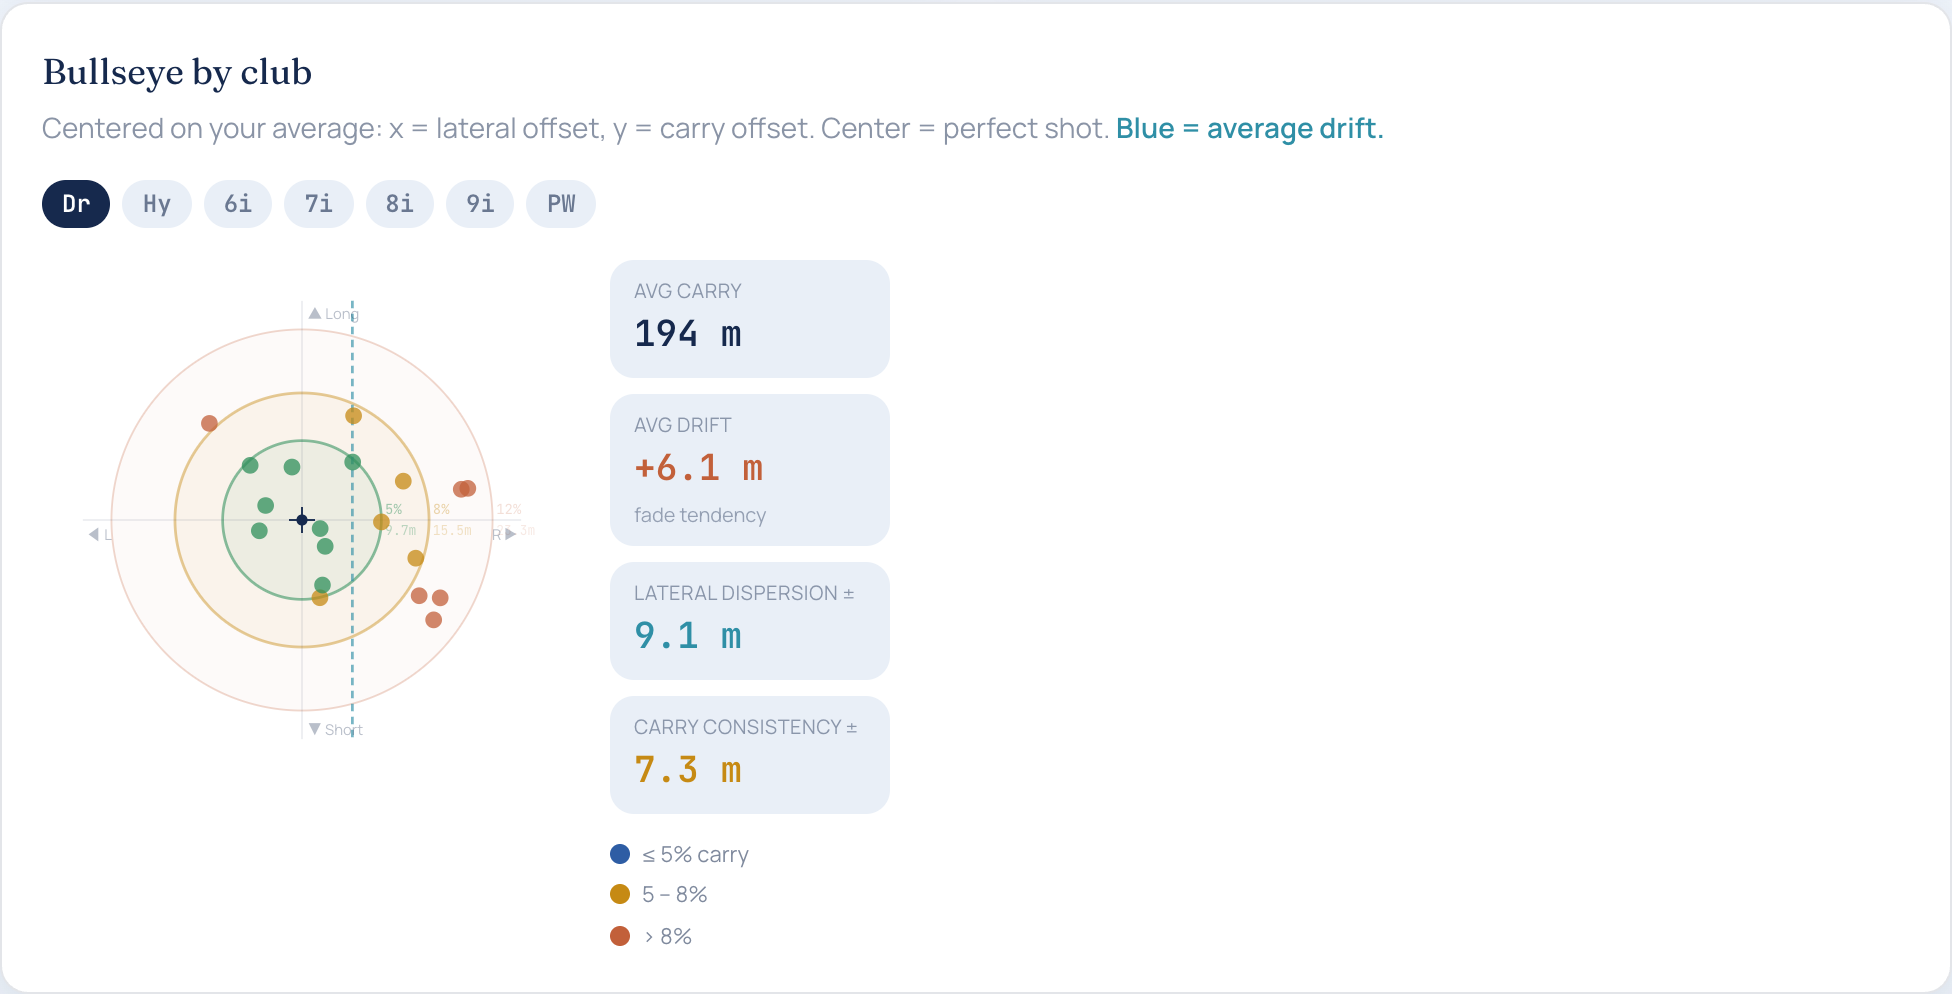
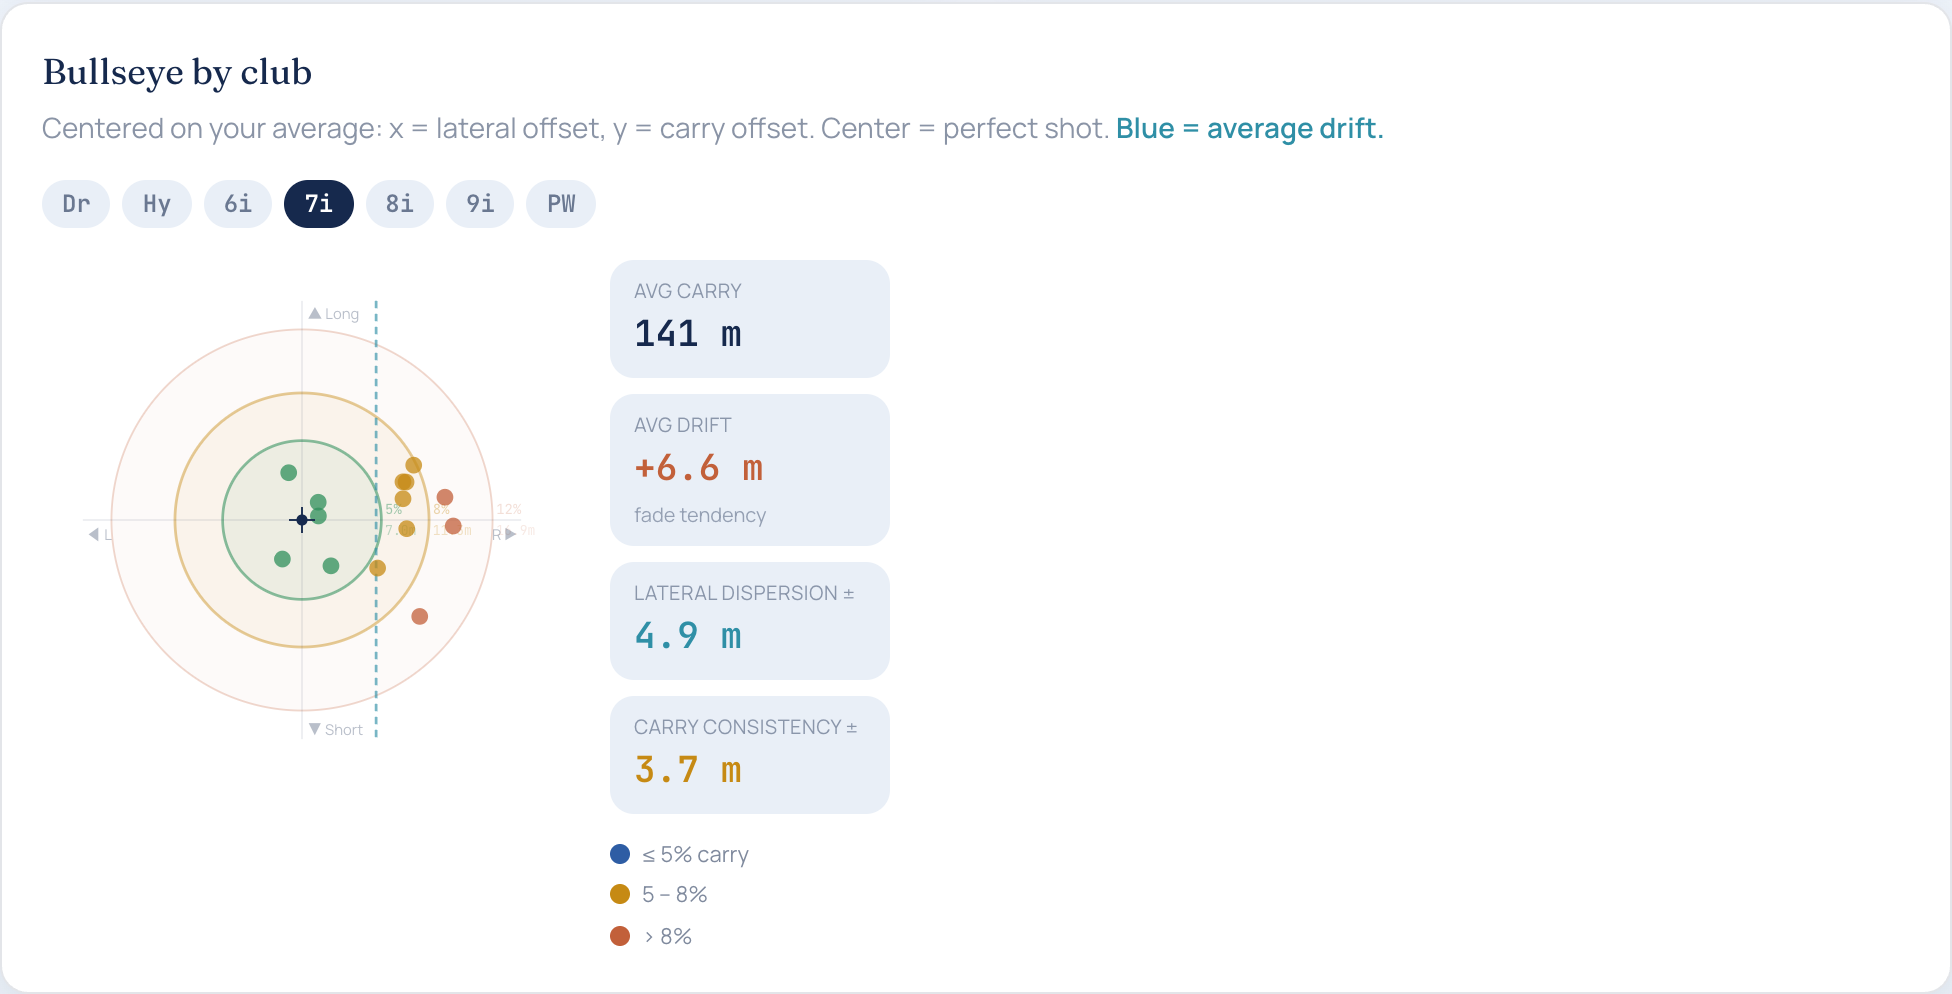
Screenshots: bullseye on 7-iron; drop the collapsed-History shot
- Re-capture bullseye.png with the 7i club selected.
- Remove docs/screenshots/history.png; the README now shows only the
 expanded-session shot.
- screenshots.mjs: select 7i before the bullseye capture, and stop capturing
 the collapsed History view.

diff --git a/README.md b/README.md
@@ -25,11 +25,8 @@ offers guided drills — all stored locally, no cloud, no account.
 | ![Bullseye by club](docs/screenshots/bullseye.png) | ![Dispersion pattern](docs/screenshots/dispersion.png) |
 
 <p align="center">
-  <img src="docs/screenshots/history.png" alt="History tab — sessions, club filter, sorting" width="70%">
-  <br><em>History — every session, filterable by club and sortable by carry / speed / smash…</em>
-  <br><br>
   <img src="docs/screenshots/history-expanded.png" alt="History — a session expanded into its shot table" width="70%">
-  <br><em>…and any session expands into its full per-shot table.</em>
+  <br><em>History — every session, filterable by club and sortable by carry / speed / smash; each expands into its full per-shot table.</em>
 </p>
 
 ---